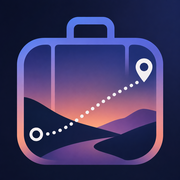
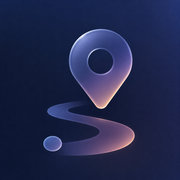
Reemplaza el ícono por el pin de ubicación con ruta
Actualiza los 5 tamaños en icons/ (apple-touch-icon, favicon 32/16,
icon-192/512) con la nueva imagen del pin de mapa sobre un camino,
manteniendo los mismos nombres de archivo y referencias en
index.html.

diff --git a/index.html b/index.html
@@ -14,7 +14,7 @@
   <link rel="preconnect" href="https://fonts.googleapis.com" />
   <link rel="preconnect" href="https://fonts.gstatic.com" crossorigin />
   <link href="https://fonts.googleapis.com/css2?family=Inter:ital,wght@0,400;0,500;0,600;0,700;0,800;1,500&display=swap" rel="stylesheet" />
-  <link rel="stylesheet" href="styles.css?v=20260810183144" />
+  <link rel="stylesheet" href="styles.css?v=20260810210921" />
 </head>
 <body>
 
@@ -132,7 +132,7 @@
   })();
   </script>
 
-  <script src="data.js?v=20260810183144"></script>
-  <script src="app.js?v=20260810183144"></script>
+  <script src="data.js?v=20260810210921"></script>
+  <script src="app.js?v=20260810210921"></script>
 </body>
 </html>
